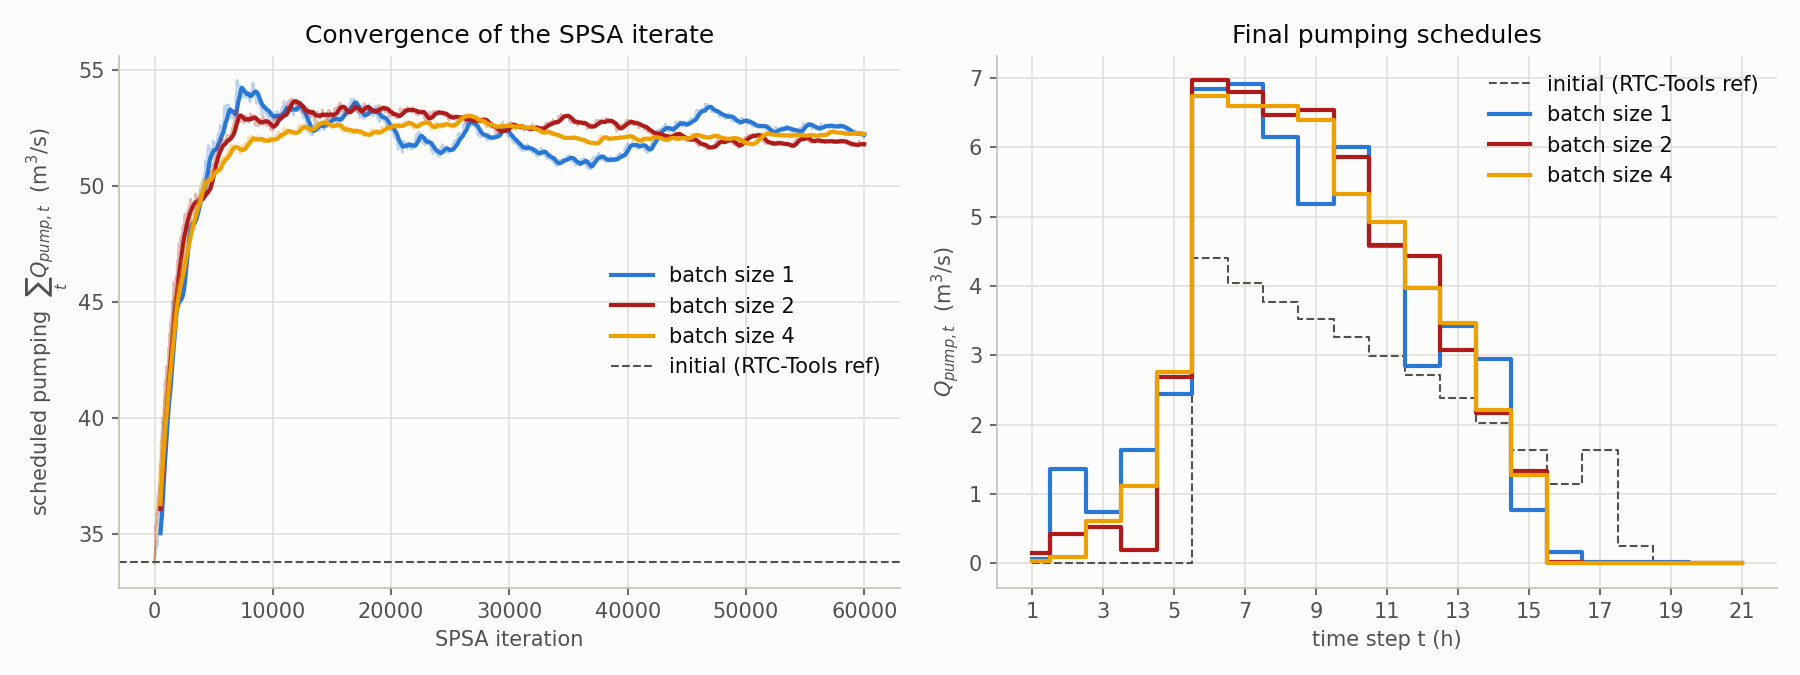
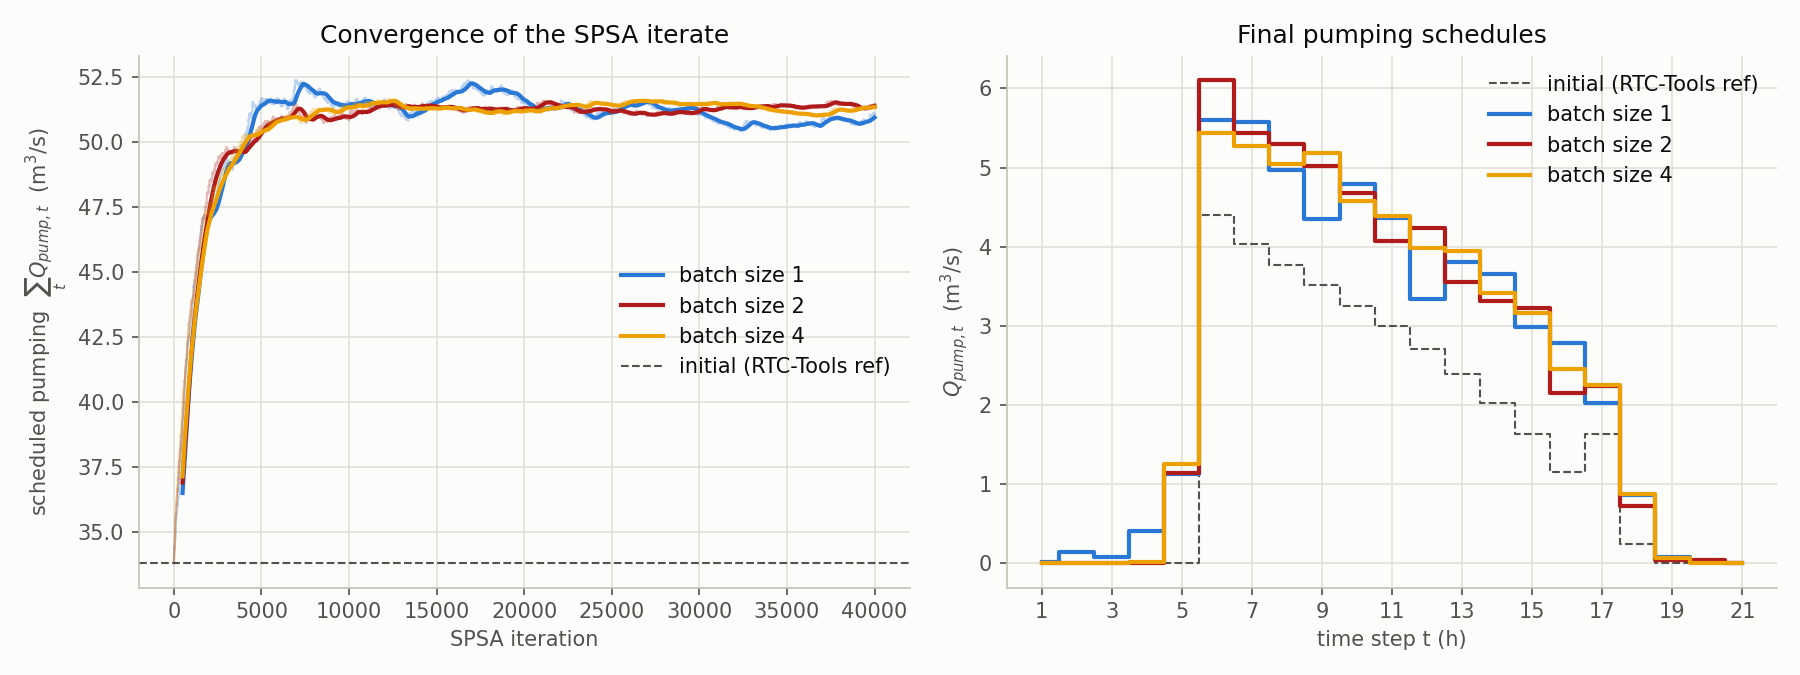
Corrected modelling mistake

diff --git a/stochastic approximation.py b/stochastic approximation.py
@@ -14,7 +14,9 @@ so Q_in[t] is log-normal with E[Q_in[t]] = 5 m3/s (mu_Y is calibrated for
 this), and we look for a fixed (here-and-now) pumping schedule Q_pump that
 minimises
 
-    E[ total pumped water  +  PENALTY * storage-bound violations ].
+    E[ total pumped water
+       + SPILL_COST    * water lost over the emergency weir
+       + TERMINAL_COST * water left in the basin at the end of the horizon ].
 
 This expectation has no closed form, so the schedule is found with
 Simultaneous Perturbation Stochastic Approximation (SPSA, Spall 1992):
@@ -30,8 +32,15 @@ Modelling changes w.r.t. the MIP:
     gravity at full capacity whenever the storage level is above sea level.
     (That is what the MIP solution does anyway - gravity drainage is free -
     so the binary x[t] is replaced by the level comparison itself.)
-  * The hard bounds 0 <= H_storage <= STORAGE_MAX become a penalty, because
-    with random inflow a fixed schedule cannot guarantee them almost surely.
+  * The upper bound H_storage <= STORAGE_MAX is enforced by an emergency weir
+    instead of by the solver: with random inflow no fixed schedule can hold
+    the level almost surely, so everything above the crest leaves the system
+    as spill and is charged ONCE, at SPILL_COST per m3. Mass balance is
+    therefore closed - excess water does not sit in the basin being re-charged
+    every hour, which would make a flood cheaper the later it starts.
+  * Water still in the basin above H_start at the end of the horizon is
+    charged at what pumping it out would have cost, so the schedule cannot
+    game the boundary by simply stopping.
 """
 
 import numpy as np
@@ -65,9 +74,10 @@ g = 9.8   # m/s^2   gravitational acceleration
 # 2. Stochastic inflow and the simulation model
 # ------------------------------------------------------------------
 PHI = 0.8                             # AR(1) persistence (log scale)
-SIGMA_EPS = 0.3                       # innovation std (log scale)
+SIGMA_EPS = 0.15                       # innovation std (log scale)
 Q_MEAN = 5.0                          # target E[Q_in[t]]
-PENALTY = 1                      # violation water is 10x as expensive as pumped water
+SPILL_COST = 5.0                     # m3 of pumping worth spending to avoid 1 m3 of spill
+TERMINAL_COST = 1.0                   # leftover water charged at exactly the pumping rate
 
 SIGMA_Y2 = SIGMA_EPS ** 2 / (1.0 - PHI ** 2)
 MU_Y = np.log(Q_MEAN) - 0.5 * SIGMA_Y2
@@ -89,46 +99,86 @@ def sample_inflow(rng, n):
 
 
 def simulate_storage(q_pump, q_in):
-    """Storage levels H[0..T-1] for one inflow realisation and a fixed schedule.
+    """Simulate one inflow realisation under a fixed schedule.
+
+    Returns (H, spill, q_pmp):
+      H     - storage level (m), in [0, STORAGE_MAX] by construction
+      spill - flow over the emergency weir (m3/s); water leaving the system
+      q_pmp - realised pumping (m3/s), never more than the scheduled q_pump
 
     Same balance as the MIP:  A*(H[t] - H[t-1]) = dt*(Q_in - Q_pump - Q_orifice)
-    at t-1. The orifice acts as recourse: full gravity capacity
-    Q <= w*C*d*sqrt(2g(H - H_sea)) whenever H > H_sea, capped so the orifice
-    itself cannot drain the storage below empty.
+    at t-1, plus the two physical limits the MIP enforced with hard bounds and
+    a fixed schedule cannot:
+
+      * an emergency weir at STORAGE_MAX - water above the crest leaves the
+        system as spill, so the level is capped and the excess is accounted
+        for exactly once instead of lingering and being re-charged every hour;
+      * the pump cannot lift water that is not in the basin.
+
+    Because pump and orifice together are capped by the water actually
+    available, H stays in [0, STORAGE_MAX] without any bound penalty.
+
+    The orifice is recourse: full gravity capacity w*C*d*sqrt(2g(H - H_sea))
+    whenever H > H_sea, taking whatever the pump leaves.
     """
     H = np.empty(T)
+    spill = np.zeros(T)
     q_ori = np.empty(T)
-    H[0] = H_start
+    q_pmp = np.empty(T)
+
+    level = H_start
     for t in range(T):
         if t > 0:
-            H[t] = H[t - 1] + dt / A * (q_in[t - 1] - q_pump[t - 1] - q_ori[t - 1])
+            level = H[t - 1] + dt / A * (q_in[t - 1] - q_pmp[t - 1] - q_ori[t - 1])
+
+        # emergency weir: everything above the crest leaves the system
+        if level > STORAGE_MAX:
+            spill[t] = (level - STORAGE_MAX) * A / dt
+            level = STORAGE_MAX
+        H[t] = level
+
+        # the pump can only move water that is actually there
+        q_pmp[t] = min(q_pump[t], A / dt * H[t] + q_in[t])
+
         head = H[t] - H_sea[t]
         if head > 0.0:
-            available = A / dt * H[t] + q_in[t] - q_pump[t]
+            available = A / dt * H[t] + q_in[t] - q_pmp[t]
             q_ori[t] = min(w * C * d * np.sqrt(2.0 * g * head),
                            ORIFICE_MAX,
                            max(available, 0.0))
         else:
             q_ori[t] = 0.0
-    return H
+
+    return H, spill, q_pmp
 
 
 def penalised_cost(q_pump, q_in):
     """Sample cost in flow units (m3/s summed over the horizon).
 
-    Pumped-volume part equals the MIP objective divided by dt; the factor
-    A/dt converts a level violation (m) into the equivalent flow that would
-    have removed it, so PENALTY compares like with like.
+    Three terms, all in the same units, so the coefficients read as ratios:
+
+      * sum(q_pump)             - the MIP objective divided by dt. The
+                                  SCHEDULED rate is charged, not the realised
+                                  one, so committing pump capacity you cannot
+                                  use is not free.
+      * SPILL_COST * spill      - every m3 over the weir charged exactly once,
+                                  whenever it happens. A flood at t=20 costs
+                                  the same as the same flood at t=5.
+      * TERMINAL_COST * ...     - water left above H_start at the end of the
+                                  horizon, charged at what pumping it out
+                                  would have cost. Without this the schedule
+                                  can stop pumping near t=T and push the
+                                  problem past the boundary for free.
     """
-    H = simulate_storage(q_pump, q_in)
-    violation = np.maximum(H - STORAGE_MAX, 0.0) + np.maximum(-H, 0.0)
-    return np.sum(q_pump) + PENALTY * A / dt * np.sum(violation)
+    H, spill, _ = simulate_storage(q_pump, q_in)
+    terminal = max(H[-1] - H_start, 0.0) * A / dt
+    return np.sum(q_pump) + SPILL_COST * np.sum(spill) + TERMINAL_COST * terminal
 
 
 # ------------------------------------------------------------------
 # 3. SPSA
 # ------------------------------------------------------------------
-N_ITER = 60000
+N_ITER = 40000
 SPSA_a = 0.1          # step-size numerator      a_k = a / (k+1+A_stab)^0.602
 SPSA_c = 0.9          # perturbation numerator   c_k = c / (k+1)^0.101
 SPSA_A = 0.1 * N_ITER # stability constant (Spall's ~10% rule)
@@ -145,8 +195,8 @@ def spsa(theta0, batch_size, n_iter=N_ITER, seed=SEED):
     realisations for both evaluations (common random numbers).
 
     The objective is nearly flat in how pumping is spread over the horizon
-    (the storage buffers timing differences) and the exponential inflow has
-    a heavy right tail, so the last iterate keeps rattling around in a flat
+    (the storage buffers timing differences) and the log-normal inflow has a
+    heavy right tail, so the last iterate keeps rattling around in a flat
     valley. The returned schedule is therefore the Polyak-Ruppert average
     of the final AVG_FRAC of the iterates instead of the last iterate.
     """
@@ -184,19 +234,28 @@ def spsa(theta0, batch_size, n_iter=N_ITER, seed=SEED):
 # 4. Monte-Carlo evaluation of a fixed schedule
 # ------------------------------------------------------------------
 def evaluate(q_pump, n_samples=5000, seed=2026):
-    """Out-of-sample estimate of expected cost and violation statistics."""
+    """Out-of-sample estimate of expected cost and flooding statistics.
+
+    The level can no longer violate its bounds (the weir enforces them), so
+    the risk measure is the spill itself: how often the basin overtops and
+    how much water is lost when it does.
+    """
     rng = np.random.default_rng(seed)
     inflows = sample_inflow(rng, n_samples)
     costs = np.empty(n_samples)
-    violated = np.empty(n_samples, dtype=bool)
+    spilled = np.empty(n_samples)
+    end_level = np.empty(n_samples)
     for i, q_in in enumerate(inflows):
-        H = simulate_storage(q_pump, q_in)
+        H, spill, _ = simulate_storage(q_pump, q_in)
         costs[i] = penalised_cost(q_pump, q_in)
-        violated[i] = np.any(H > STORAGE_MAX) or np.any(H < 0.0)
+        spilled[i] = spill.sum() * dt        # m3 over the whole horizon
+        end_level[i] = H[-1]
     return {
         'pumped volume (m3)': np.sum(q_pump) * dt,
-        'E[penalised cost]': costs.mean(),
-        'P(bound violated)': violated.mean(),
+        'E[total cost]': costs.mean(),
+        'P(spill)': (spilled > 0).mean(),
+        'E[spill] (m3)': spilled.mean(),
+        'E[end level] (m)': end_level.mean(),
     }
 
 
